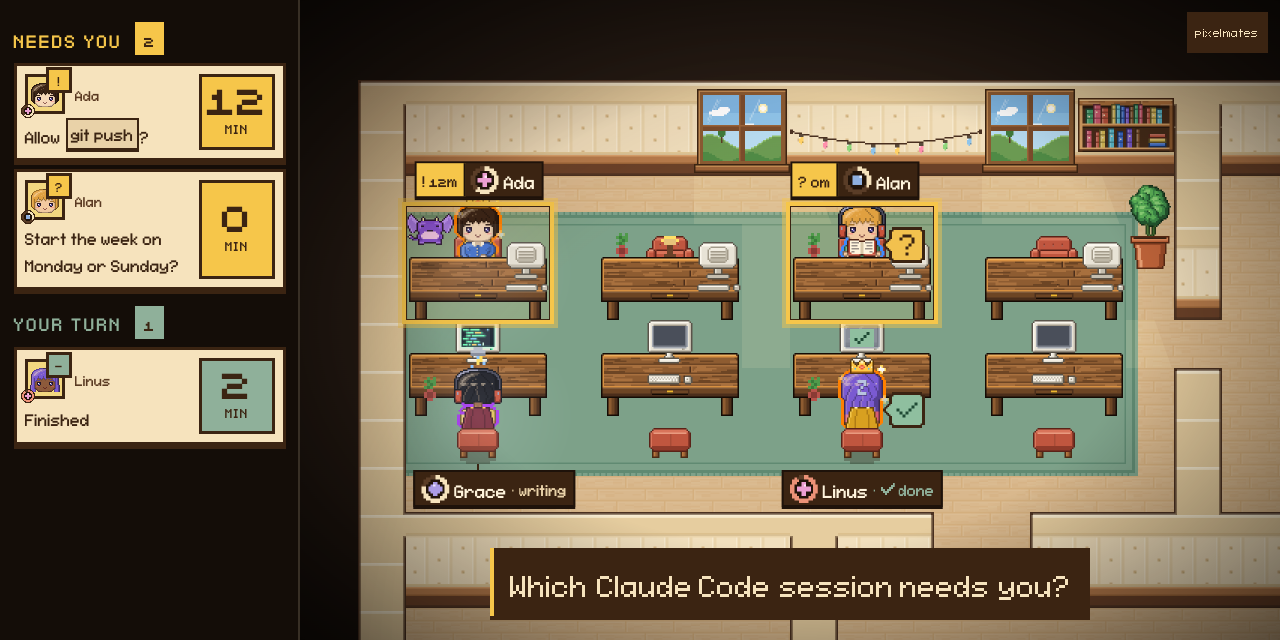
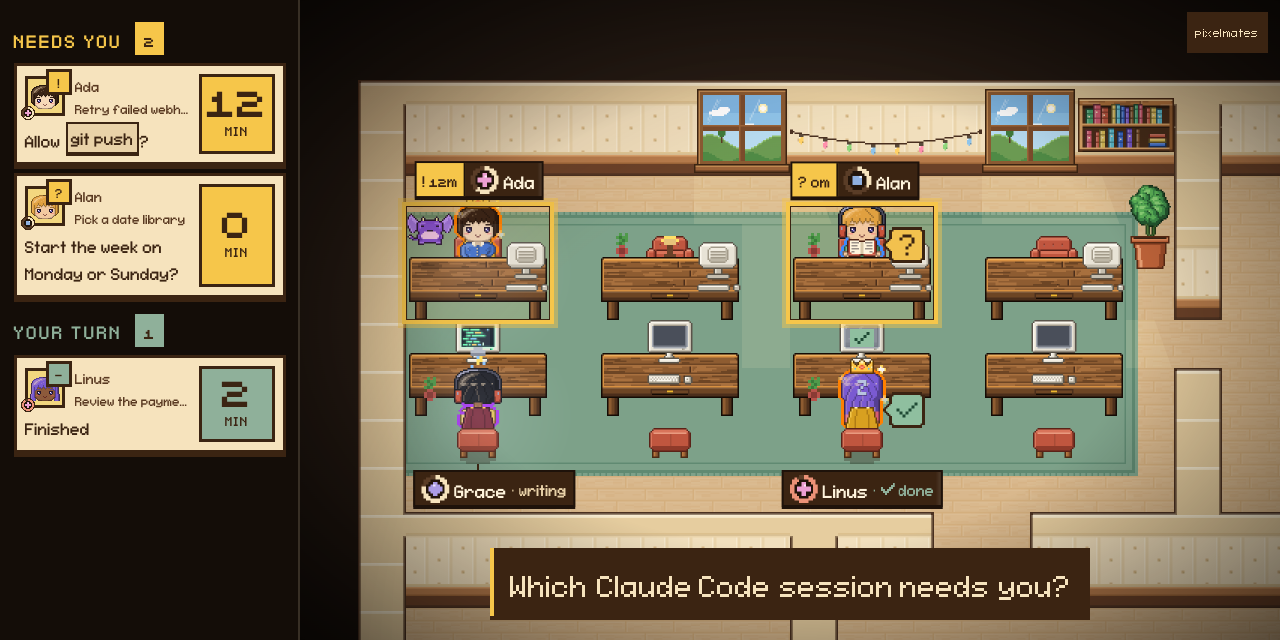
Show session titles and the speech balloon in the README images
Re-captured story.gif, its cuts and the rail stills from the dev monitor scene with
the 1.0.7 build: every ticket carries its title row, and needs-you.png hovers Alan
so the balloon shows the question the rail cuts. privacy.png is rebuilt from the
same stills; the old one still showed the pre-1.0.5 question.

Changed region(s): [[0.0, 0.0938, 0.2188, 0.7188]]

diff --git a/README.md b/README.md
@@ -9,7 +9,7 @@ npx @pixelmates/cli
 ```
 
 <p align="center">
-  <img src="docs/images/story.gif" alt="Ada waited 12 minutes on Allow git push. Linus is done, a check beside his head, under Your turn. Alan ends his turn asking Start the week on Monday or Sunday? and a gold question mark appears beside his head. Ada ships a PR, +120, level 13. P masks the text." width="880">
+  <img src="docs/images/story.gif" alt="Ada waited 12 minutes on Allow git push. Linus is done, a check beside his head, under Your turn. Alan ends his turn asking Start the week on Monday or Sunday? and a gold question mark appears beside his head. Each ticket shows its session title under the name. Ada ships a PR, +120, level 13. P masks the text." width="880">
 </p>
 
 Fork of [pixel-agents](https://github.com/pixel-agents-hq/pixel-agents) by Pablo De Lucca (MIT). The engine, the hooks and the layout editor are his work; the art is redrawn by code in this fork.
@@ -34,7 +34,7 @@ Needs Node.js 22+. Step by step with screenshots: [docs/install.md](docs/install
 
 ## Who needs you
 
-<img src="docs/images/needs-you.png" alt="Rail: Needs you lists Ada, 12 minutes on Allow git push, and Alan asking whether the new date picker should start the week on Monday or Sunday; Stuck lists Grace, tests failing x4; Your turn lists Linus. In the office Ada's and Alan's desks are lit, Alan has a gold question mark beside his head, Linus a check" width="880">
+<img src="docs/images/needs-you.png" alt="Rail: Needs you lists Ada, 12 minutes on Allow git push, and Alan asking whether the new date picker should start the week on Monday or Sunday; Stuck lists Grace, tests failing x4; Your turn lists Linus. Each ticket shows its session title under the name. In the office a speech balloon over Alan shows his title, Pick a date library, and his question. Ada's and Alan's desks are lit, Linus has a check beside his head" width="880">
 
 The rail ranks the sessions that need you: Needs you, then Stuck, then Your turn. A gold `?` beside a character's head means it asked you something; a sage check means it finished. The browser tab counts permission prompts and questions, `(2) pixelmates`, and its icon gets a gold dot. Each ticket shows the session's title under the name. Hover a character with a ?, a check or a permission prompt to read its title and what it wants in a speech balloon.
 
@@ -50,7 +50,7 @@ Each session is a named character that keeps its level across restarts. XP comes
 
 ## Privacy
 
-<img src="docs/images/privacy.png" alt="Left: rail with text. Right: the same rail after P, text masked" width="880">
+<img src="docs/images/privacy.png" alt="Left: rail with session titles and text. Right: the same rail after P, titles and text masked" width="880">
 
 P masks session text; names, minutes and counters stay. The server binds 127.0.0.1 behind a token and sends nothing off the machine. The plugin's MCP reads transcripts on this machine and redacts secrets; what it returns reaches Claude like any other tool result.
 
